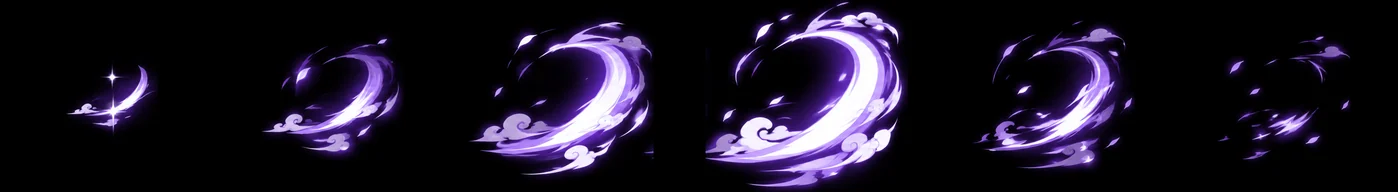
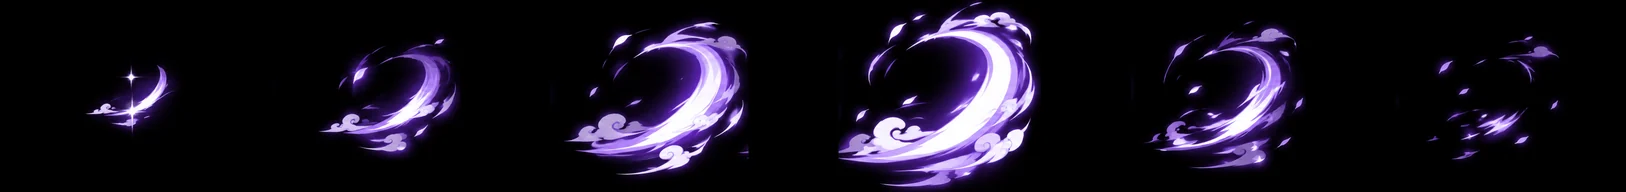
Bộ hiệu ứng vẽ tay: đâm (Chọc), vòng (Xoay), nổ khi trúng đòn, gai đất
- tools/fx_slash.py tách 5 tấm (cắt ở cột tối gần ranh ô), đổi màu 12 hệ → s.<chem|choc|no|xoay|gai>.<hệ>
- Chọc: luồng đâm xoay theo hướng kiếm; Xoay: vòng sáng ôm người; đánh thường trúng quái: nổ theo hệ vũ khí
- drawEffect hỗ trợ blend 'add' (nền đen = trong suốt); gai đất đã có hình, chưa gắn chiêu

Claude-Session: https://claude.ai/code/session_01NZd8YsZEguGMDtshCzNLjh

diff --git a/src/entity/slashfx.js b/src/entity/slashfx.js
@@ -5,25 +5,27 @@ import { drawEffect } from './sprites.js';
 const SLUG = { Kim: 'kim', 'Ám': 'am', 'Thủy': 'thuy', 'Hỏa': 'hoa', 'Mộc': 'moc', 'Thổ': 'tho', Quang: 'quang', 'Lôi': 'loi', 'Băng': 'bang', Phong: 'phong', 'Hư': 'hu', 'Thời': 'thoi' };
 const BY_NUM = ['kim', 'am', 'thuy', 'hoa', 'moc', 'tho', 'quang', 'loi', 'bang', 'phong', 'hu', 'thoi']; // art.weapon.he.<n> (thứ tự bộ he6.json)
 
-// art: thông số hình vũ khí (có thể có he); id: mã hình
-export function slashOf(id, art) {
-  if (art?.he && SLUG[art.he]) return `s.chem.${SLUG[art.he]}`;
+// name: chem | choc | no | xoay | gai (tools/fx_slash.py); id: mã hình vũ khí; art: thông số hình (có thể có he)
+export function fxOf(name, id, art) {
+  if (art?.he && SLUG[art.he]) return `s.${name}.${SLUG[art.he]}`;
   const n = Number(/\.he\.(\d+)$/.exec(id || '')?.[1]);
-  return `s.chem.${BY_NUM[n - 1] || 'phong'}`;
+  return `s.${name}.${BY_NUM[n - 1] || 'phong'}`;
 }
 
-// cfg: { moves: { chem: {dx, dy, r, t0, t1, rot, follow, a} } } — tâm vệt = chuôi kiếm (+dx, dy theo L), cao 2·r·L: vệt ôm đúng tầm kiếm quét.
-// w: { gx, gy, L } chuôi & chiều dài kiếm lúc này. spin: góc kiếm đã quay (xoay: vệt quay theo kiếm)
+// cfg: { moves: { chem: {fx, dx, dy, r, t0, t1, rot, follow, along, body, a} } } — tâm vệt = chuôi kiếm (+dx, dy theo L), cao 2·r·L.
+//   follow: quay theo góc kiếm đã quay (spin) · along: xoay theo hướng kiếm (ảnh vẽ chĩa sang phải) · body: tâm ở thân (dy theo CH), không theo chuôi
+// w: { gx, gy, L, CH, ang } chuôi, chiều dài kiếm, chiều cao nhân vật, góc kiếm lúc này (0 = lên, +90° = trước mặt)
 // Trả về true nếu đòn này dùng vệt vẽ tay (khi đó bỏ vệt nét vẽ cũ)
-export function drawSlash(ctx, cfg, move, t, w, fxId, spin = 0) {
+export function drawSlash(ctx, cfg, move, t, w, weapon, art, spin = 0) {
   const m = cfg?.moves?.[move];
   if (!m) return false;
   const p = (t - m.t0) / (m.t1 - m.t0);
   if (p < 0 || p >= 1) return true;
   ctx.save();
   ctx.globalCompositeOperation = 'lighter';
-  ctx.translate(w.gx, w.gy); if (m.follow) ctx.rotate(spin);
-  const ok = drawEffect(ctx, fxId, p, (m.dx || 0) * w.L, (m.dy || 0) * w.L, 2 * m.r * w.L, (m.rot || 0) * Math.PI / 180, m.a ?? 1);
+  if (m.body) ctx.translate(0, (m.dy || 0) * w.CH); else ctx.translate(w.gx, w.gy);
+  if (m.follow) ctx.rotate(spin); else if (m.along) ctx.rotate(w.ang - Math.PI / 2);
+  const ok = drawEffect(ctx, fxOf(m.fx || move, weapon, art), p, (m.dx || 0) * w.L, m.body ? 0 : (m.dy || 0) * w.L, 2 * m.r * w.L, (m.rot || 0) * Math.PI / 180, m.a ?? 1);
   ctx.restore();
   return ok;
 }

diff --git a/src/entity/rig.js b/src/entity/rig.js
@@ -2,7 +2,7 @@
 // Mỗi món là 1 hình tĩnh; nhún, chém, ngự kiếm đều do code. Thông số lấy từ data/equipment/he6.json
 // (chủ dự án chỉnh và lưu trong Tủ Đồ Tu Chân). Đơn vị: CH = chiều cao nhân vật tới gấu áo, cw = bề ngang áo.
 import { MOVES, pose, tempo, calmPose, blendPose, easeBlend } from './moves.js';
-import { slashOf, drawSlash } from './slashfx.js';
+import { drawSlash } from './slashfx.js';
 
 const D = Math.PI / 180;
 const BASE_CH = 40; // chiều cao (điểm ảnh thế giới, trước sprite_scale) khi params.than.scale = 1
@@ -275,7 +275,7 @@ export function drawRig(ctx, p, look, drawFallbackBody) {
     const gy = fl > 0.02 ? grip[1] + (-bL + 2 * f - grip[1]) * fl : grip[1] + (pz ? pz.gy * CH : 0);
     ctx.save(); ctx.translate(gx, gy); ctx.rotate(ang - a.angle * D);
     ctx.drawImage(R.img[a.id], -a.grip[0] * s, -a.grip[1] * s, a.w * s, a.h * s); ctx.restore();
-    if (pz) wpn = { gx, gy, L };
+    if (pz) wpn = { gx, gy, L, CH, ang };
     if (pz && !R.slash?.moves?.[st.move]) drawTrail(ctx, st, pz.trail ? { gx, gy, ang, r: L * 0.82 } : null, now, CH); // đòn có vệt vẽ tay: vẽ ở cuối (trước người)
   }
   if (pz && pz.sx !== 1) ctx.scale(pz.sx, 1); // xoay: thân quay một vòng (kiếm, cánh không co)
@@ -320,7 +320,7 @@ export function drawRig(ctx, p, look, drawFallbackBody) {
   hand(imgL, B.boxes.handL, -1, atkR ? 0 : kk * P.tay.grow, !atkR && kk > 0.3); ctx.restore();
   ctx.save(); ctx.translate(atkR ? kk * P.tay.reach * cw + hx : 0, -swing(st1) - (atkR ? kk * CH * P.tay.ry - hy : 0));
   hand(imgR, B.boxes.handR, 1, atkR ? kk * P.tay.grow : 0, atkR && kk > 0.3); ctx.restore();
-  if (wpn) drawSlash(ctx, R.slash, st.move, Math.min(1, st.atk < 0 ? 1 : st.atk), wpn, slashOf(look.weapon, R.art[look.weapon] || R.extra[look.weapon]), (sw ?? rest) - rest); // vệt chém vẽ tay theo hệ vũ khí
+  if (wpn) drawSlash(ctx, R.slash, st.move, Math.min(1, st.atk < 0 ? 1 : st.atk), wpn, look.weapon, R.art[look.weapon] || R.extra[look.weapon], (sw ?? rest) - rest); // vệt vẽ tay theo hệ vũ khí (src/entity/slashfx.js)
   ctx.restore();
 }
 

diff --git a/src/game/gameplay.js b/src/game/gameplay.js
@@ -7,6 +7,7 @@ import { createNpcs } from './npcs.js';
 import { createItemInfo } from './iteminfo.js';
 import { createForgedArt } from './forged-art.js';
 import { createFxQueue } from './fxqueue.js';
+import { fxOf } from '../entity/slashfx.js';
 import { createCpEffects } from './cp-effects.js';
 import { createProgress } from './progress.js';
 import { createStats } from './stats.js';
@@ -136,7 +137,7 @@ export async function createGameplay({ onRespawn = () => {}, loadJSON, map, me, 
     if (r.miss) { say(m.x, top, 'Trượt', '#cfd6e6'); return; }
     sound(r.crit ? 'sfx.bao-kich' : 'sfx.trung');
     say(m.x, top, `${r.crit ? 'Bạo kích ' : ''}-${r.dmg}${sup < 1 ? ' · bị áp chế' : ''}`, sup < 1 ? '#b9a6d6' : r.crit ? '#ffd23a' : '#ffffff', r.crit);
-    const hf = HIT_FX[skill];
+    const hf = skill === 'attack' && me.look?.weapon ? [fxOf('no', me.look.weapon), 30] : HIT_FX[skill]; // đánh thường có kiếm: nổ vẽ tay theo hệ vũ khí
     if (hf) play(hf[0], m.x, midY(m), hf[1] * (r.crit ? 1.4 : 1));
     healMe(r.heal);
     if (mobs.damage(m, r.dmg)) onKill(m);

diff --git a/src/entity/sprites.js b/src/entity/sprites.js
@@ -98,6 +98,7 @@ export function drawEffect(ctx, id, p, x, y, h, rot = 0, alpha = 1) {
   const k = h / s.fh, w = s.fw * k;
   ctx.save();
   ctx.globalAlpha *= alpha;
+  if (s.blend === 'add') ctx.globalCompositeOperation = 'lighter'; // hình vẽ trên nền đen (tools/fx_slash.py): cộng sáng, đen = trong suốt
   ctx.imageSmoothingEnabled = true;
   ctx.translate(x, y); if (rot) ctx.rotate(rot);
   ctx.drawImage(im, f * s.fw, 0, s.fw, s.fh, -w / 2, -h / 2, w, h);

diff --git a/tools/fx_slash.py b/tools/fx_slash.py
@@ -1,9 +1,9 @@
 """Vệt chém lưỡi liềm kiểu My Heroes (chủ dự án 25/10/2026, vẽ bằng GPT theo lệnh mẫu: nền đen, không viền, 6 khung).
-Nguồn: assets/effects/_source/slash/chem-phong.png — một hàng 6 khung, nền đen (vẽ cộng sáng: đen = trong suốt).
+Nguồn: assets/effects/_source/slash/<tên>-phong.png — mỗi tấm một hàng 6 khung, nền đen (vẽ cộng sáng: đen = trong suốt).
 Khung tách theo khoảng trống dọc; khung dính nhau tách ở cột ít điểm sáng nhất. Mỗi khung đặt vào ô cùng cỡ,
 canh theo tâm ô gốc (bề ngang tấm / 6) để vệt không giật vị trí giữa các khung.
 Màu: giữ độ sáng từng điểm, đổi sắc độ sang màu hệ (data/build/dao-van.json → he.<hệ>.color) — lõi trắng vẫn trắng.
-Dùng: python3 -I tools/fx_slash.py   → assets/effects/v3/chem.<hệ>.webp + data/art/sprites.json → fx "s.chem.<hệ>"
+Dùng: python3 -I tools/fx_slash.py   → assets/effects/v3/<tên>.<hệ>.webp + data/art/sprites.json → fx "s.<tên>.<hệ>"
 """
 import colorsys
 import json
@@ -12,7 +12,8 @@ from pathlib import Path
 import numpy as np
 from PIL import Image
 
-SRC = Path('assets/effects/_source/slash/chem-phong.png')
+SRC = Path('assets/effects/_source/slash')  # <tên>-phong.png: chem (lưỡi liềm), choc (đâm), no (nổ trúng đòn), xoay (vòng), gai (gai đất)
+NAMES = ['chem', 'choc', 'no', 'xoay', 'gai']
 OUT = Path('assets/effects/v3')
 N = 6
 SCALE = 0.5  # khung gốc ~360 px → 180 px (đủ nét khi phóng to trên điện thoại)
@@ -21,30 +22,20 @@ SLUG = {'Kim': 'kim', 'Ám': 'am', 'Thủy': 'thuy', 'Hỏa': 'hoa', 'Mộc': 'm
 
 
 def frames(a):
+    """Cắt tại cột tối nhất gần mỗi ranh giới ô (bề ngang / 6) — chịu được khung dính nhau, khung tràn ô."""
     lit = a.max(axis=2) > 30
     col = lit.sum(axis=0)
-    xs = np.where(col > 0)[0]
-    segs, s, p = [], xs[0], xs[0]
-    for x in xs[1:]:
-        if x - p > 25:
-            segs.append([s, p + 1]); s = x
-        p = x
-    segs.append([s, p + 1])
-    while len(segs) < N:  # khung dính nhau: tách đoạn rộng nhất ở cột tối nhất (vùng giữa)
-        i = max(range(len(segs)), key=lambda k: segs[k][1] - segs[k][0])
-        a0, a1 = segs[i]; w = a1 - a0
-        cut = a0 + w // 4 + int(np.argmin(col[a0 + w // 4:a1 - w // 4]))
-        segs[i:i + 1] = [[a0, cut], [cut, a1]]
     slot = a.shape[1] / N
+    cuts = [0] + [int(k * slot - 90 + np.argmin(col[int(k * slot) - 90:int(k * slot) + 90])) for k in range(1, N)] + [a.shape[1]]
     ys = np.where(lit.any(axis=1))[0]
     y0, y1 = ys[0], ys[-1] + 1
-    half = int(max(max(abs(s0 - (k + 0.5) * slot), abs(s1 - (k + 0.5) * slot)) for k, (s0, s1) in enumerate(segs))) + 4
+    half = int(max(max(abs(cuts[k] - (k + 0.5) * slot), abs(cuts[k + 1] - (k + 0.5) * slot)) for k in range(N)))
     out = []
-    for k, (s0, s1) in enumerate(segs):
-        c = int((k + 0.5) * slot)
+    for k in range(N):
+        s0, s1, c = cuts[k], cuts[k + 1], int((k + 0.5) * slot)
         f = np.zeros((y1 - y0, 2 * half, 3), np.uint8)
-        part = a[y0:y1, s0:s1]
-        f[:, s0 - (c - half):s1 - (c - half)] = part
+        lo, hi = max(s0, c - half), min(s1, c + half)
+        f[:, lo - (c - half):hi - (c - half)] = a[y0:y1, lo:hi]
         out.append(f)
     return out
 
@@ -64,22 +55,22 @@ def tint(f, color):
 
 
 def main():
-    a = np.asarray(Image.open(SRC).convert('RGB'))
-    fs = frames(a)
-    h, w = fs[0].shape[:2]
-    fw, fh = round(w * SCALE), round(h * SCALE)
     colors = {he: v['color'] for he, v in json.load(open('data/build/dao-van.json', encoding='utf-8'))['he'].items()}
     OUT.mkdir(parents=True, exist_ok=True)
     sp = json.load(open('data/art/sprites.json', encoding='utf-8'))
-    for he, slug in SLUG.items():
-        sheet = Image.new('RGB', (fw * N, fh))
-        for k, f in enumerate(fs):
-            sheet.paste(Image.fromarray(tint(f, colors[he])).resize((fw, fh), Image.LANCZOS), (k * fw, 0))
-        path = OUT / f'chem.{slug}.webp'
-        sheet.save(path, quality=86, method=6)
-        sp['fx'][f's.chem.{slug}'] = {'src': str(path), 'fw': fw, 'fh': fh, 'anims': {'play': {'row': 0, 'n': N}}, 'fps': 18,
-                                      'blend': 'add', 'lazy': True}
-        print(path, path.stat().st_size)
+    for name in NAMES:
+        fs = frames(np.asarray(Image.open(SRC / f'{name}-phong.png').convert('RGB')))
+        h, w = fs[0].shape[:2]
+        fw, fh = round(w * SCALE), round(h * SCALE)
+        for he, slug in SLUG.items():
+            sheet = Image.new('RGB', (fw * N, fh))
+            for k, f in enumerate(fs):
+                sheet.paste(Image.fromarray(tint(f, colors[he])).resize((fw, fh), Image.LANCZOS), (k * fw, 0))
+            path = OUT / f'{name}.{slug}.webp'
+            sheet.save(path, quality=86, method=6)
+            sp['fx'][f's.{name}.{slug}'] = {'src': str(path), 'fw': fw, 'fh': fh, 'anims': {'play': {'row': 0, 'n': N}}, 'fps': 18,
+                                            'blend': 'add', 'lazy': True}
+        print(name, fw, fh, path.stat().st_size)
     Path('data/art/sprites.json').write_text(json.dumps(sp, ensure_ascii=False) + '\n')  # cùng cách ghi với tools/thien_fx.py
 
 
